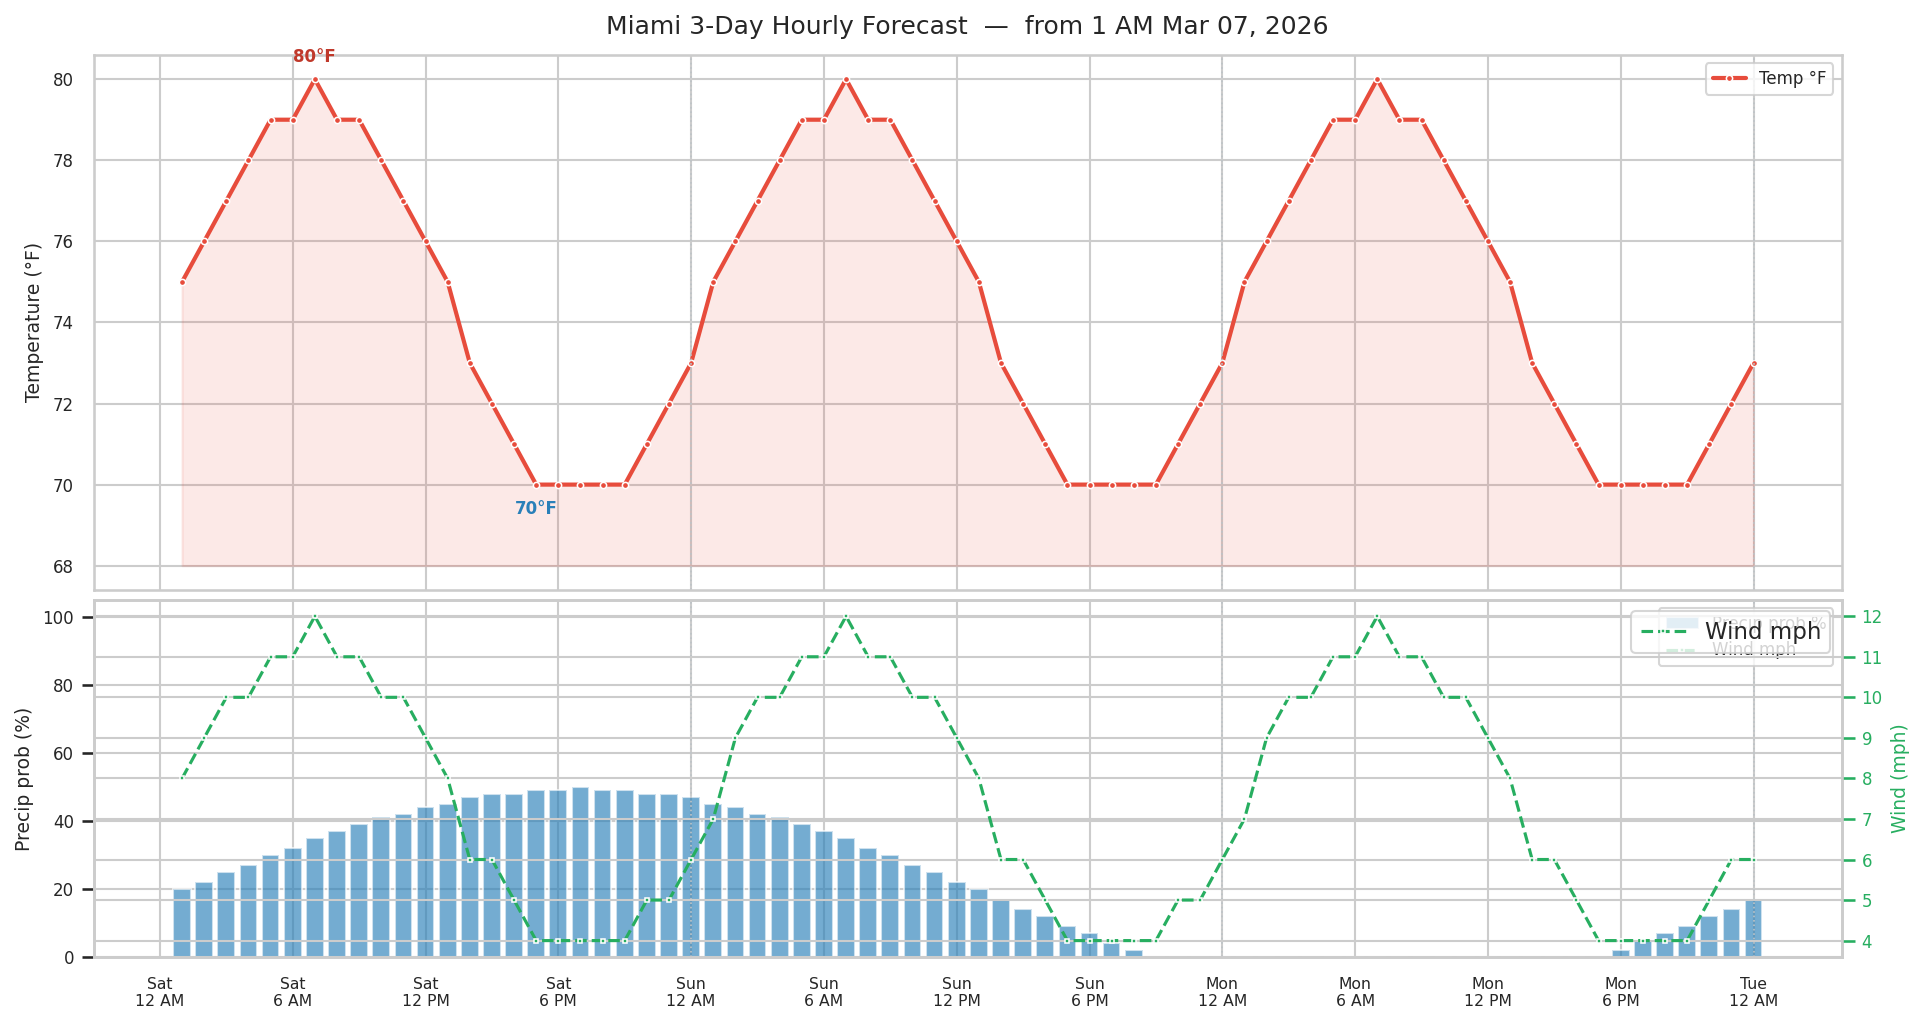
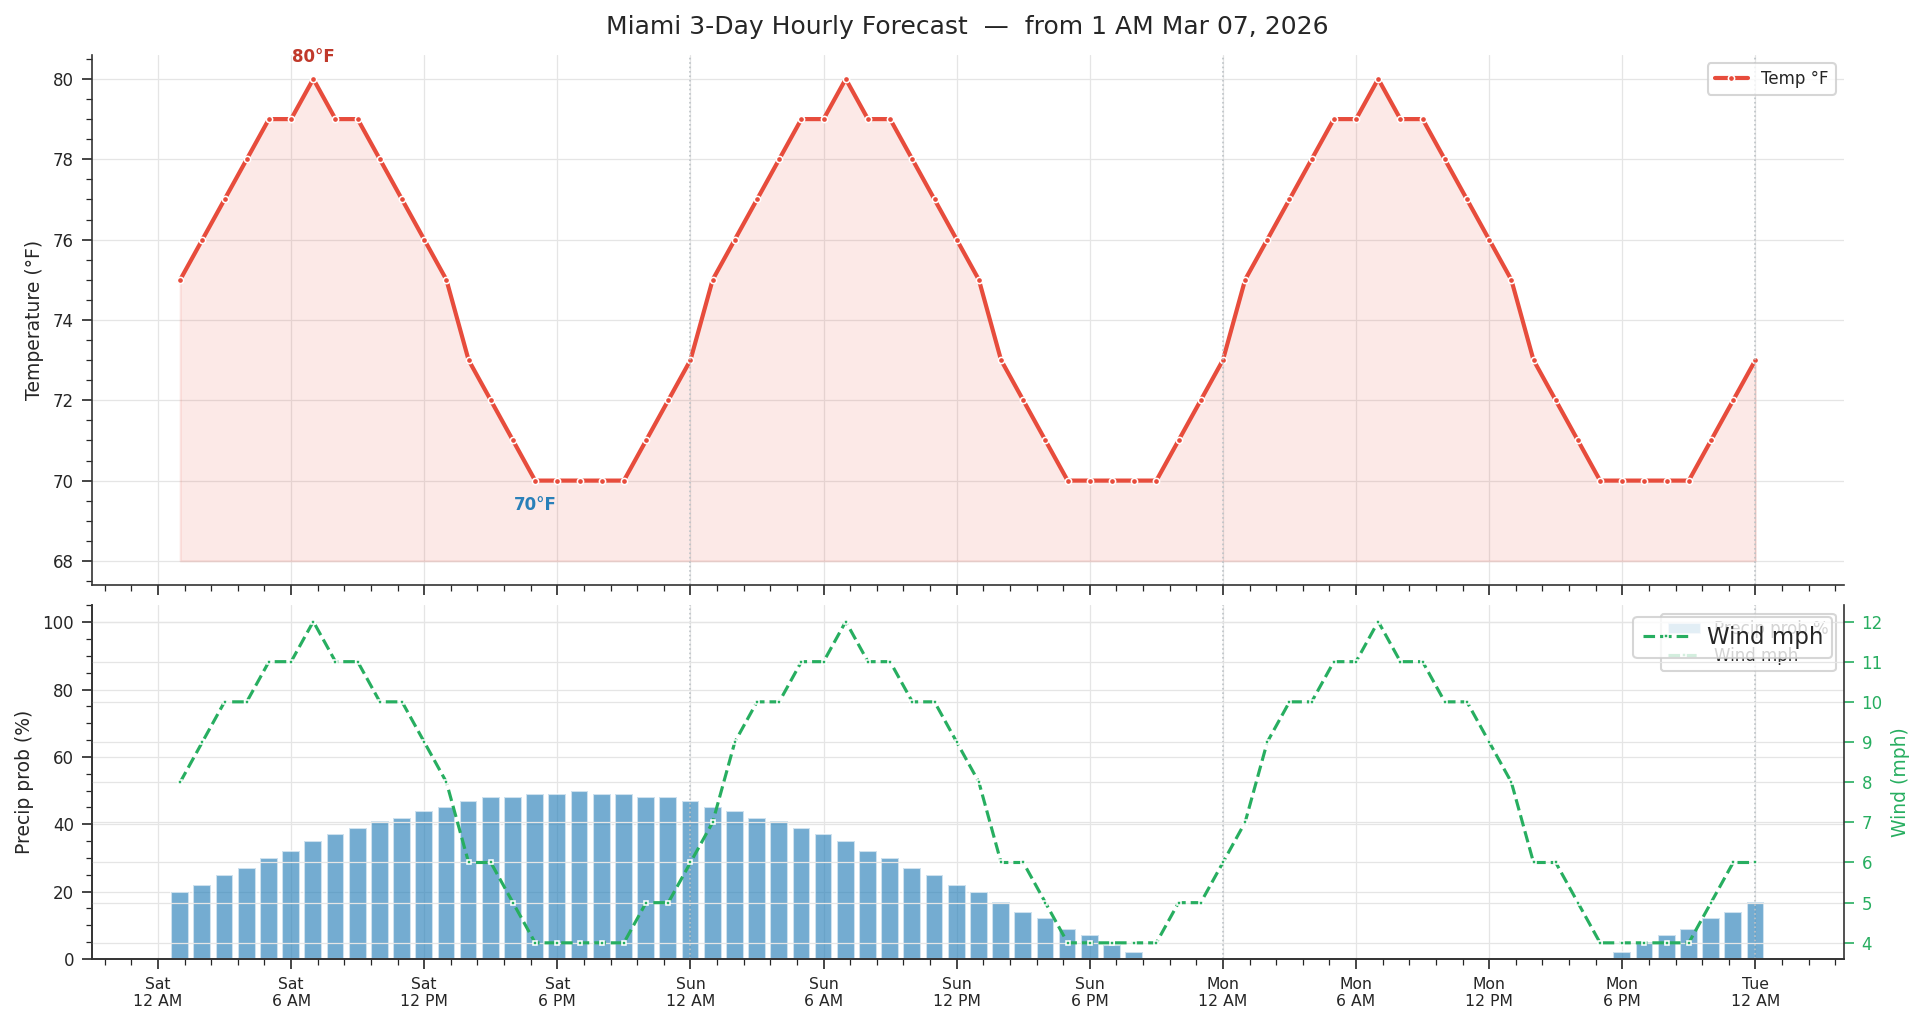
Style charts with white background, axis ticks, and despined spines
Switch seaborn theme to "ticks" with explicit rc overrides: white axes/figure
background, outward major ticks (size 5) and minor ticks (size 3) on both X
and Y axes, light #e5e5e5 grid. Call sns.despine(top, right) on each panel
for a clean publication-plot look. Regenerate both PNGs.

https://claude.ai/code/session_01CNXLyTn73nXbeHM5kUB6hr

diff --git a/miami_weather_forecaster.py b/miami_weather_forecaster.py
@@ -19,7 +19,26 @@ import matplotlib.pyplot as plt
 import matplotlib.dates as mdates
 import seaborn as sns
 
-sns.set_theme(style="whitegrid")
+sns.set_theme(
+    style="ticks",
+    rc={
+        "axes.facecolor":  "white",
+        "figure.facecolor": "white",
+        "axes.edgecolor":  "#333333",
+        "axes.linewidth":  0.8,
+        "xtick.direction": "out",
+        "ytick.direction": "out",
+        "xtick.major.size": 5,
+        "ytick.major.size": 5,
+        "xtick.minor.size": 3,
+        "ytick.minor.size": 3,
+        "xtick.major.width": 0.8,
+        "ytick.major.width": 0.8,
+        "axes.grid":       True,
+        "grid.color":      "#e5e5e5",
+        "grid.linewidth":  0.6,
+    },
+)
 from datetime import datetime, timedelta, timezone
 
 # ---------------------------------------------------------------------------
@@ -459,9 +478,14 @@ def chart_forecast_errors(
             for ax in (ax1, ax2):
                 ax.axvline(boundary, color="#bdc3c7", linewidth=0.8, linestyle=":")
 
+    for ax in (ax1, ax2):
+        ax.minorticks_on()
+        ax.tick_params(which="minor", length=3, width=0.6)
+        sns.despine(ax=ax, top=True, right=True)
+
     fig.autofmt_xdate(rotation=0, ha="center")
     plt.tight_layout(h_pad=0.4)
-    plt.savefig(output_path, dpi=150, bbox_inches="tight")
+    plt.savefig(output_path, dpi=150, bbox_inches="tight", facecolor="white")
     plt.close(fig)
     print(f"  Chart saved → {output_path}")
     print(f"  Tree model  MAE={mae:.2f}°F  RMSE={rmse:.2f}°F  Bias={bias:+.2f}°F")
@@ -603,9 +627,15 @@ def chart_forecast_hourly(hourly_periods, output_path="miami_forecast_chart.png"
         for ax in (ax1, ax2):
             ax.axvline(boundary, color="#bdc3c7", linewidth=0.8, linestyle=":")
 
+    for ax in (ax1, ax2):
+        ax.minorticks_on()
+        ax.tick_params(which="minor", length=3, width=0.6)
+        sns.despine(ax=ax, top=True, right=True)
+    sns.despine(ax=ax2b, top=True, right=False)  # keep right spine for twin axis
+
     fig.autofmt_xdate(rotation=0, ha="center")
     plt.tight_layout(h_pad=0.4)
-    plt.savefig(output_path, dpi=150, bbox_inches="tight")
+    plt.savefig(output_path, dpi=150, bbox_inches="tight", facecolor="white")
     plt.close(fig)
     print(f"  Chart saved → {output_path}")
 
